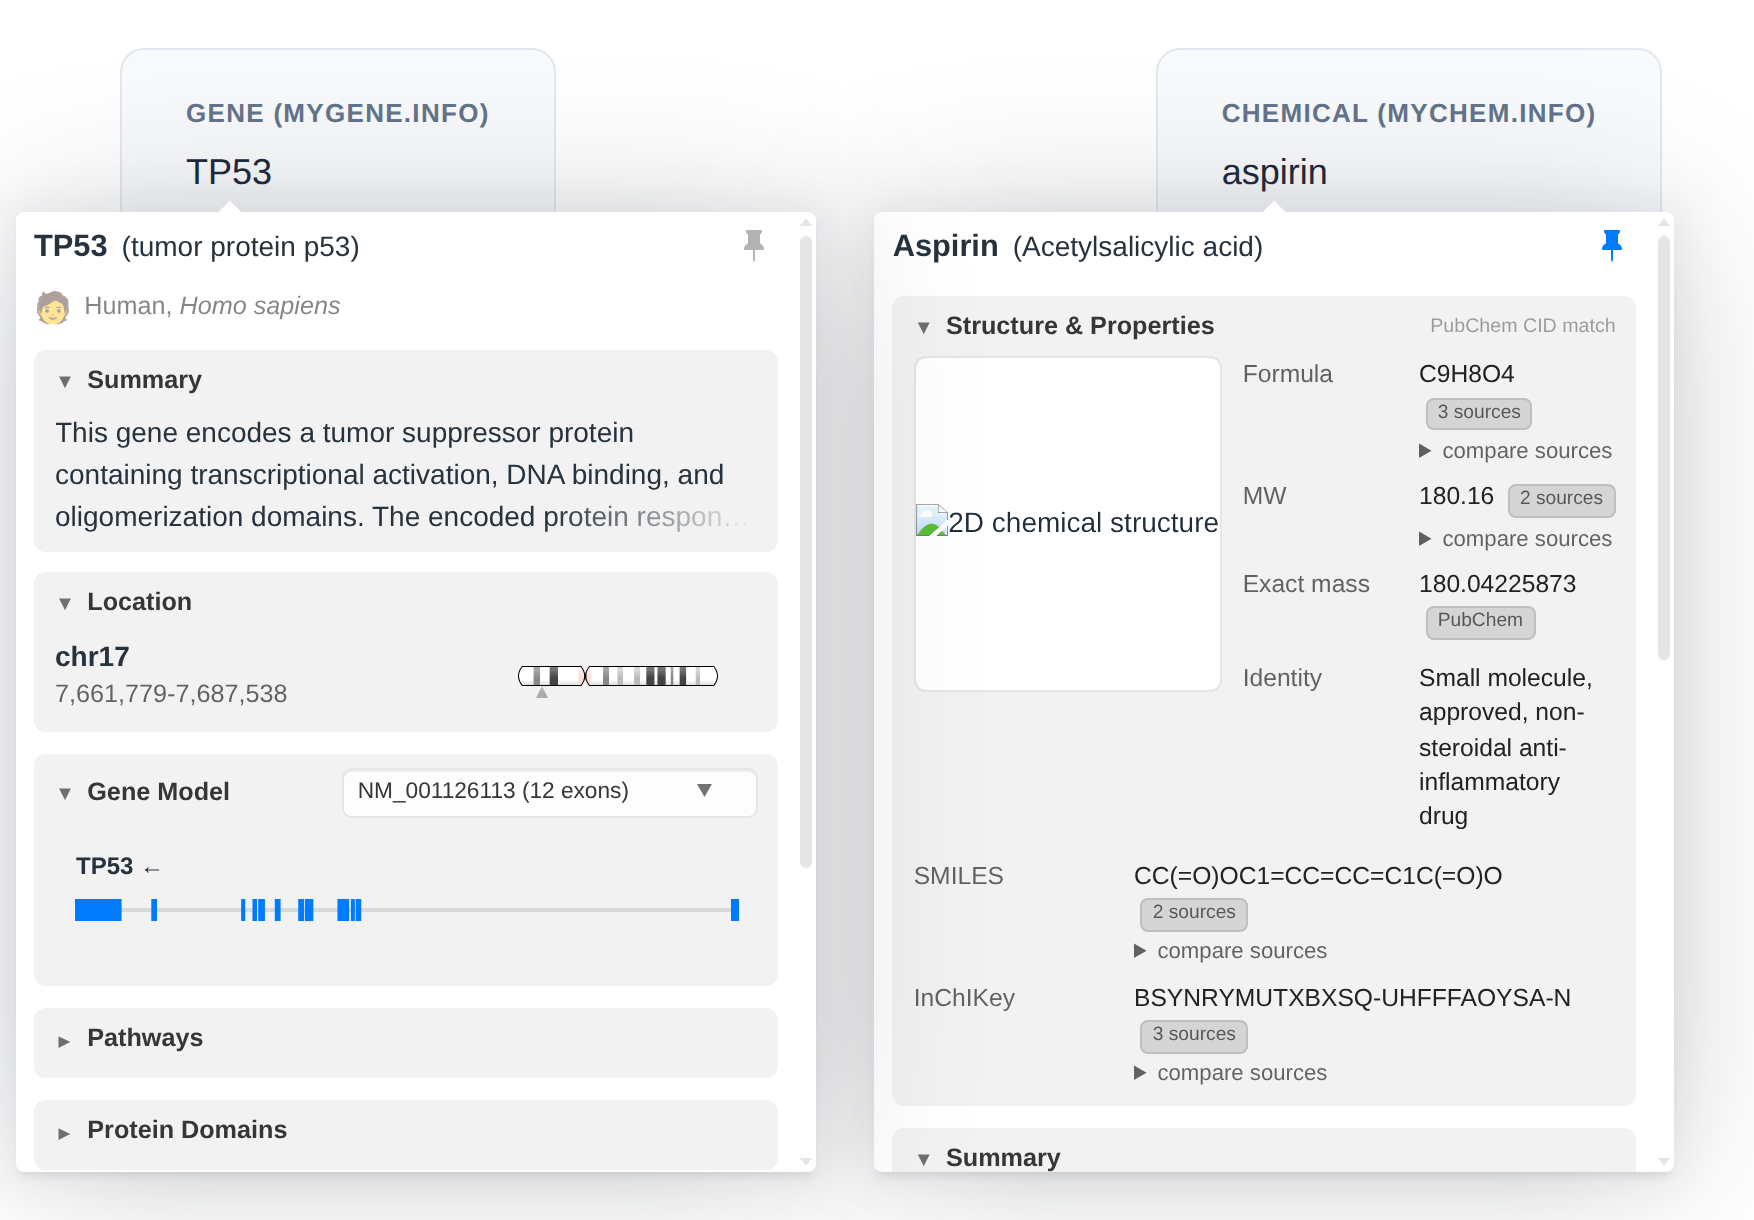
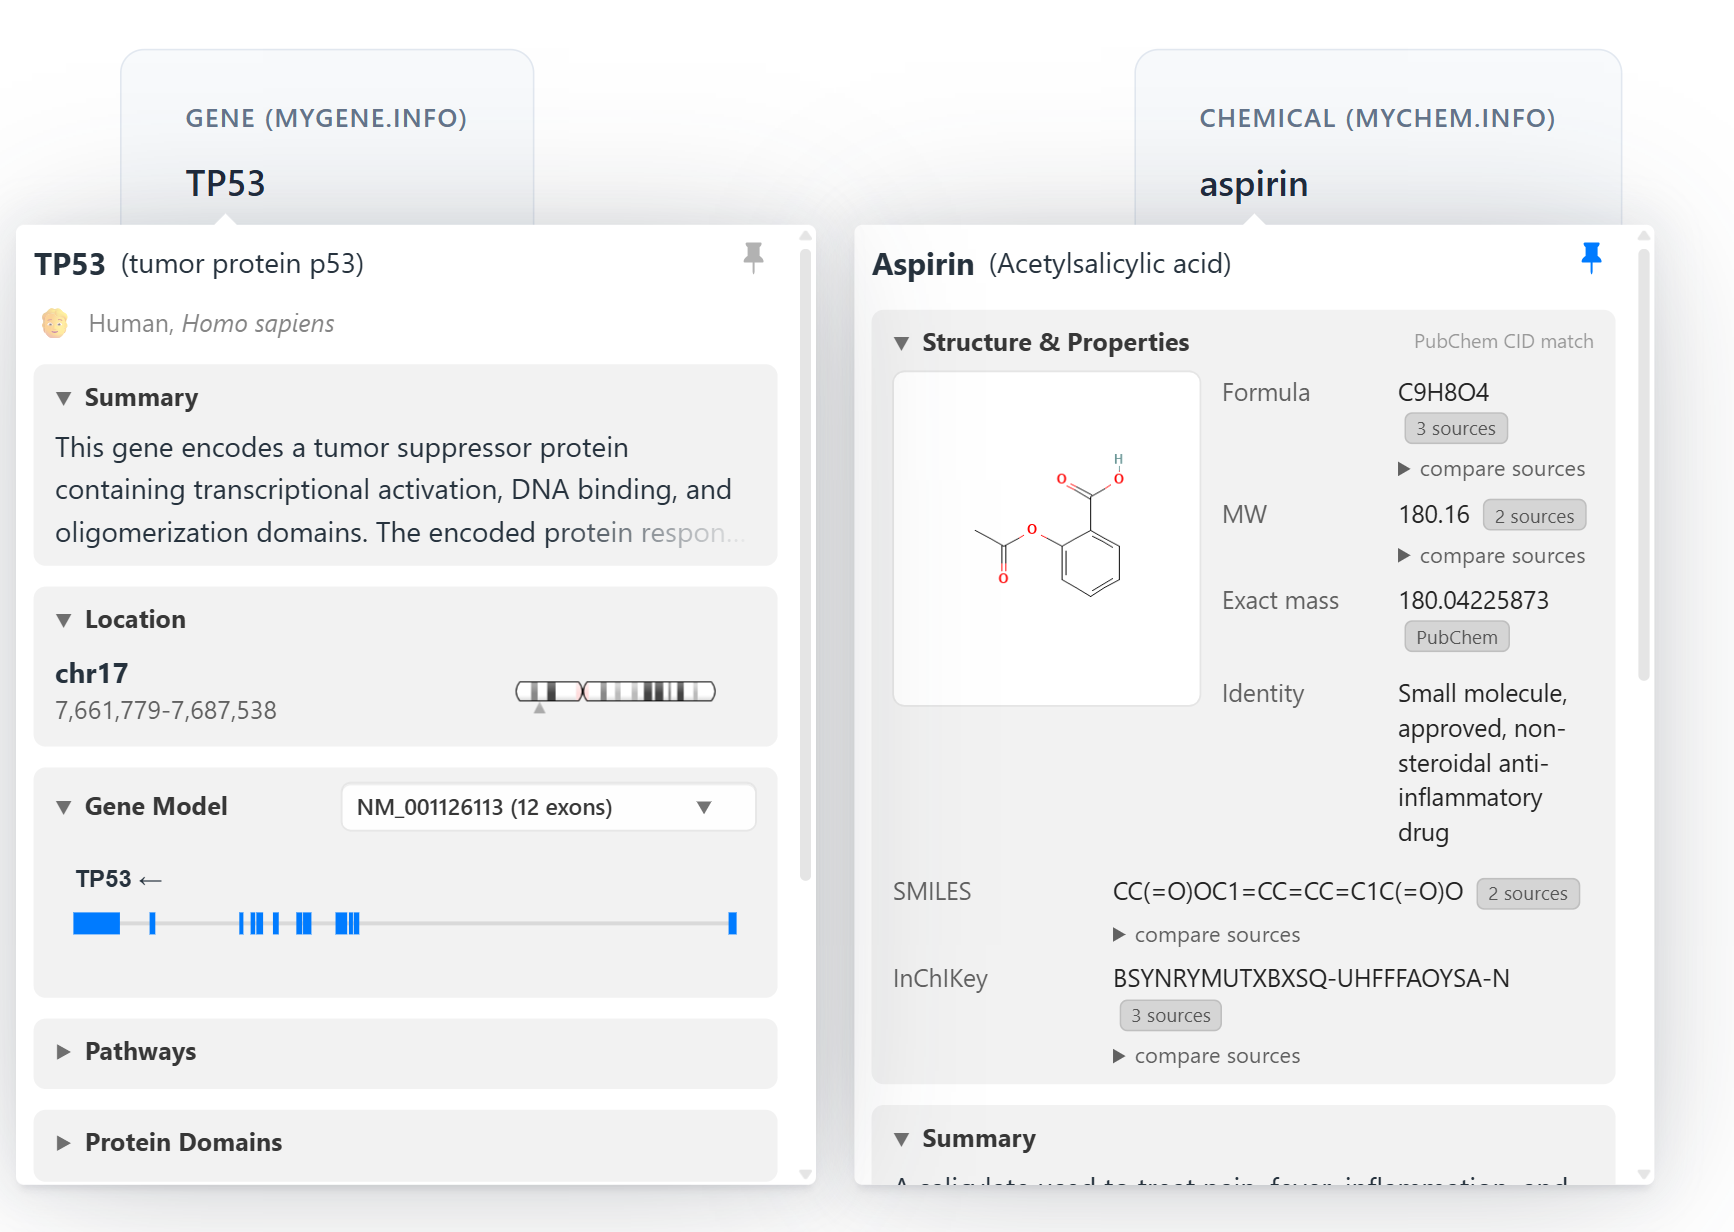
feat: minor improvement to CSS for gene location section

diff --git a/src/css/main.css b/src/css/main.css
@@ -351,13 +351,15 @@ ul.gene-tooltip-nested-list {
   display: flex;
   flex-direction: row;
   align-items: center;
-  justify-content: space-between;
-  gap: 1em;
+  justify-content: space-between; /* pin the ideogram to the right edge */
+  gap: 0.25em;
 }
 
 .gene-tooltip-location-coords {
   display: flex;
   flex-direction: column;
+  flex: 0 0 auto;      /* never shrinks, so the coordinates are not squeezed into a wrap */
+  white-space: nowrap; /* keep the position range on a single line */
 }
 
 .gene-tooltip-location-chr {
@@ -370,7 +372,8 @@ ul.gene-tooltip-nested-list {
 }
 
 .gene-tooltip-ideo {
-  min-width: 120px;
+  flex: 0 1 auto; /* the ideogram absorbs any width pressure rather than the text */
+  min-width: 0;
 }
 
 .gene-tooltip-ideo #_ideogram {
